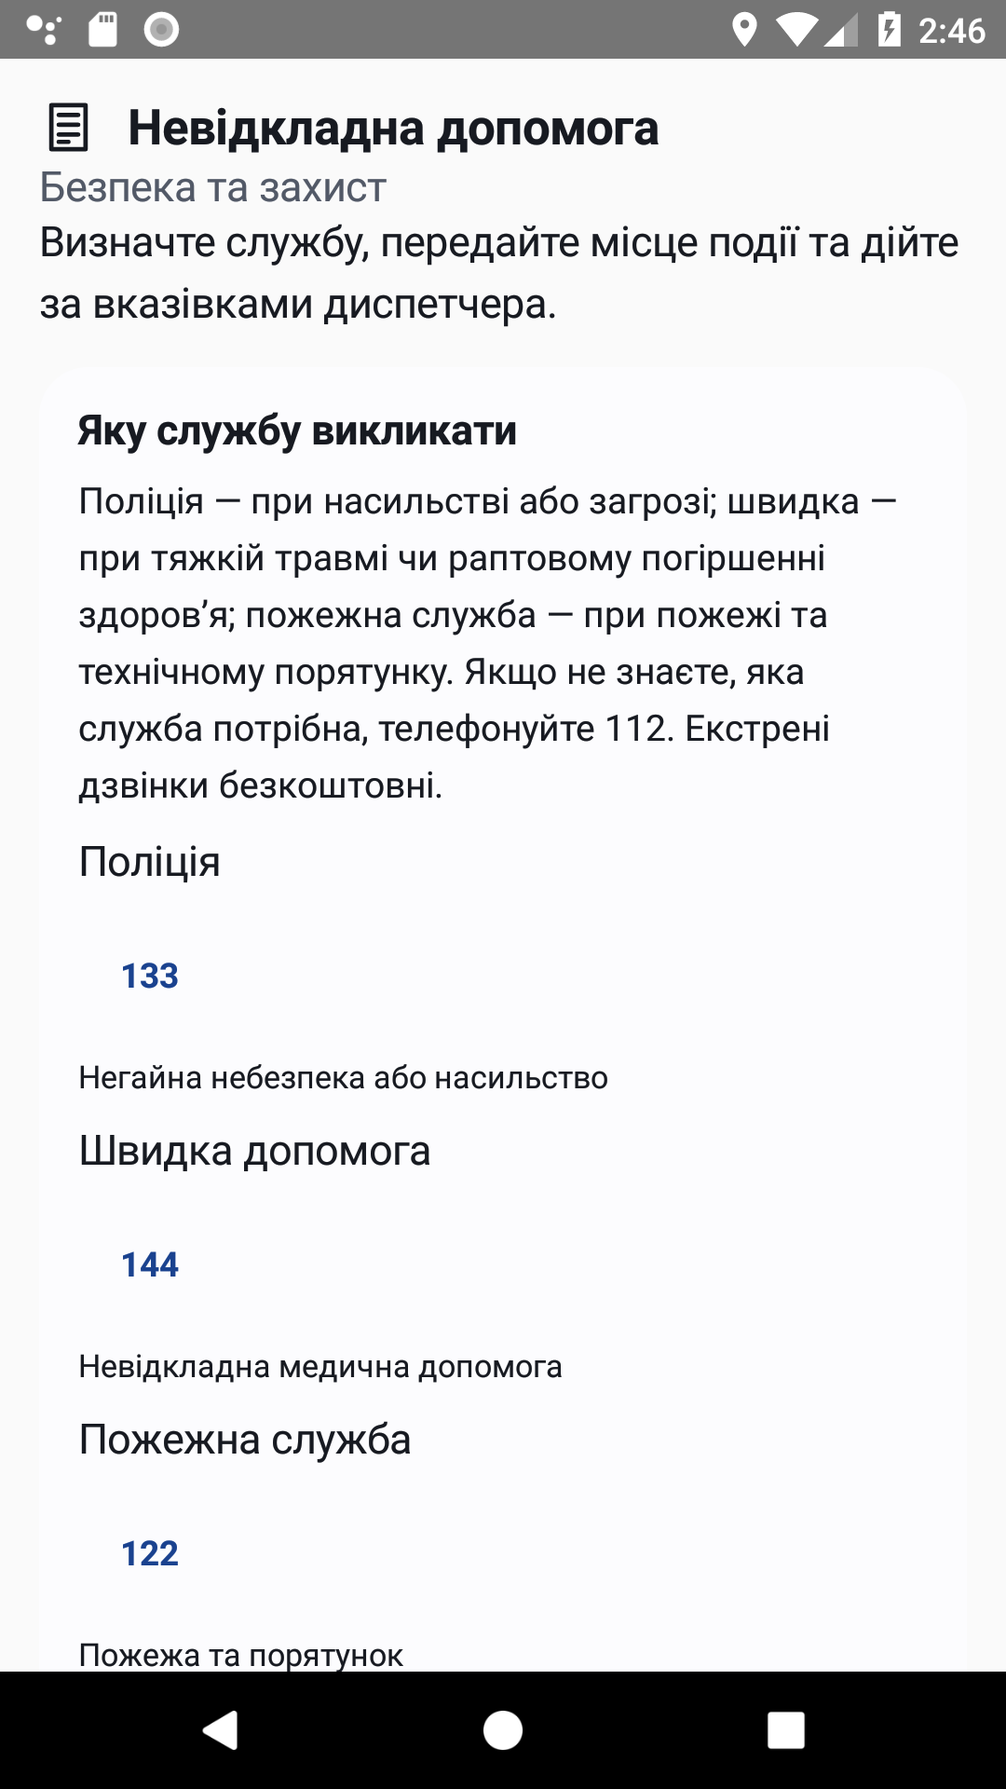
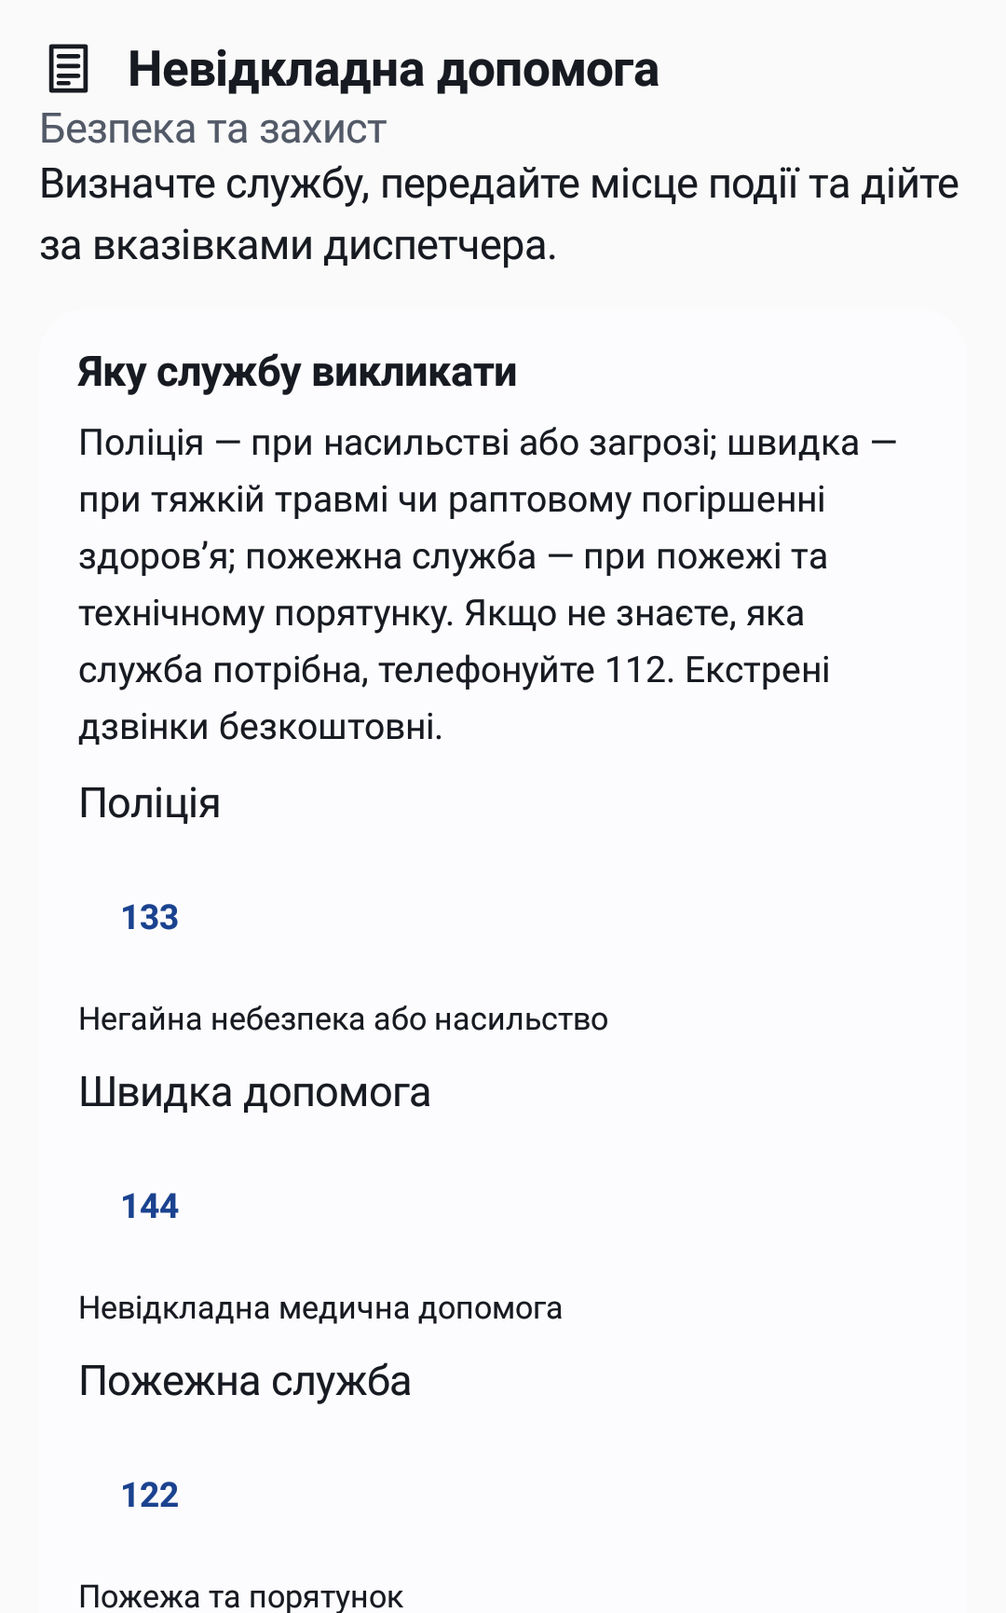
Refine Android Directory home presentation and search

diff --git a/Android/app/src/main/java/at/uac/android/feature/directory/DirectoryScreen.kt b/Android/app/src/main/java/at/uac/android/feature/directory/DirectoryScreen.kt
@@ -3,31 +3,49 @@ package at.uac.android.feature.directory
 import android.content.Intent
 import android.net.Uri
 import androidx.compose.foundation.clickable
+import androidx.compose.foundation.background
 import androidx.compose.foundation.layout.Arrangement
+import androidx.compose.foundation.layout.Box
 import androidx.compose.foundation.layout.Column
 import androidx.compose.foundation.layout.PaddingValues
+import androidx.compose.foundation.layout.Row
+import androidx.compose.foundation.layout.Spacer
 import androidx.compose.foundation.layout.fillMaxSize
 import androidx.compose.foundation.layout.fillMaxWidth
+import androidx.compose.foundation.layout.heightIn
 import androidx.compose.foundation.layout.padding
+import androidx.compose.foundation.layout.size
+import androidx.compose.foundation.layout.width
 import androidx.compose.foundation.lazy.LazyColumn
 import androidx.compose.foundation.lazy.items
+import androidx.compose.foundation.lazy.rememberLazyListState
 import androidx.compose.material3.Button
+import androidx.compose.material3.LocalContentColor
 import androidx.compose.material3.MaterialTheme
 import androidx.compose.material3.OutlinedButton
 import androidx.compose.material3.OutlinedTextField
+import androidx.compose.material3.Surface
 import androidx.compose.material3.Text
 import androidx.compose.material3.TextButton
 import androidx.compose.runtime.Composable
+import androidx.compose.runtime.CompositionLocalProvider
 import androidx.compose.runtime.DisposableEffect
 import androidx.compose.runtime.collectAsState
 import androidx.compose.runtime.getValue
 import androidx.compose.runtime.mutableStateOf
 import androidx.compose.runtime.remember
+import androidx.compose.runtime.rememberCoroutineScope
 import androidx.compose.runtime.saveable.rememberSaveable
 import androidx.compose.runtime.setValue
 import androidx.compose.ui.Modifier
+import androidx.compose.ui.Alignment
+import androidx.compose.ui.draw.clip
+import androidx.compose.ui.graphics.Brush
+import androidx.compose.ui.graphics.Color
 import androidx.compose.ui.platform.LocalContext
 import androidx.compose.ui.platform.testTag
+import androidx.compose.ui.semantics.Role
+import androidx.compose.foundation.shape.RoundedCornerShape
 import androidx.compose.ui.unit.dp
 import at.uac.android.core.backend.AppBackend
 import androidx.lifecycle.viewmodel.compose.viewModel
@@ -35,10 +53,12 @@ import at.uac.android.design.UacCard
 import at.uac.android.design.UacDesign
 import at.uac.android.design.UacIcon
 import at.uac.android.design.UacSectionHeading
+import at.uac.android.design.UacSymbol
 import at.uac.android.feature.browse.Choice
 import at.uac.android.feature.browse.SafeLink
 import at.uac.android.feature.browse.regions
 import at.uac.android.feature.browse.tr
+import kotlinx.coroutines.launch
 
 /** Public catalog stays readable from the reviewed bundle while cloud edits sync. */
 @Composable
@@ -88,8 +108,14 @@ fun DirectoryDestination(
     val category = parts.getOrNull(1)?.let { id -> categories.firstOrNull { it.id == id } }
     val topic = category?.let { c -> parts.getOrNull(2)?.let(c::visibleTopic) }
     val missing = (parts.size > 1 && category == null) || (parts.size > 2 && topic == null)
+    var query by rememberSaveable(route) { mutableStateOf("") }
+    val searching = query.isNotBlank()
+    val results = remember(query, language, categories) { searchDirectory(categories, query, language) }
+    val listState = rememberLazyListState()
+    val scope = rememberCoroutineScope()
     LazyColumn(
         Modifier.fillMaxSize().testTag("directory-list"),
+        state = listState,
         contentPadding = PaddingValues(start = UacDesign.pageInset, end = UacDesign.pageInset, bottom = 36.dp),
         verticalArrangement = Arrangement.spacedBy(16.dp),
     ) {
@@ -185,58 +211,135 @@ fun DirectoryDestination(
                 }
             }
         } else {
-            item("intro") {
-                UacSectionHeading(tr(language, "Ratgeber", "Довідник"), UacIcon.NEWS)
-                Text(tr(language, "Wichtige Themen für das Leben in Österreich – vom Ankommen bis zum Alltag.",
-                    "Важливі теми для життя в Австрії — від перших кроків до щоденних питань."),
-                    style = MaterialTheme.typography.bodyLarge)
-                if (canEdit) TextButton({ onOpen("directory/manage") }) {
-                    Text(tr(language, "Ratgeber verwalten", "Керування довідником"))
+            if (!searching) {
+                item("intro") {
+                    DirectoryWelcomeHero(language) { scope.launch { listState.animateScrollToItem(3) } }
+                    if (canEdit) TextButton({ onOpen("directory/manage") }) {
+                        Text(tr(language, "Ratgeber verwalten", "Керування довідником"))
+                    }
                 }
             }
             item("search") {
-                var query by rememberSaveable { mutableStateOf("") }
                 OutlinedTextField(query, { query = it.take(160) },
                     label = { Text(tr(language, "Im Ratgeber suchen", "Пошук у довіднику")) },
                     modifier = Modifier.fillMaxWidth().testTag("directory-search"), singleLine = true)
-                val results = remember(query, language, categories) { searchDirectory(categories, query, language) }
-                if (query.trim().length >= 2) {
-                    if (results.isEmpty())
-                        Text(tr(language, "Keine Treffer", "Нічого не знайдено"))
-                    results.take(40).forEach { result ->
-                        TextButton({ onOpen(result.first) }, Modifier.fillMaxWidth()) {
-                            Text(result.second)
+            }
+            if (searching) {
+                item("results-heading") {
+                    Text(tr(language, "Suchergebnisse", "Результати пошуку"),
+                        style = MaterialTheme.typography.titleMedium)
+                }
+                if (results.isEmpty()) item("no-results") {
+                    Text(tr(language, "Keine Treffer. Versuchen Sie einen anderen Begriff.",
+                        "Нічого не знайдено. Спробуйте інший запит."))
+                }
+                items(results, key = { "result:${it.first}" }) { result ->
+                    UacCard(Modifier.clickable { onOpen(result.first) }) {
+                        Text(result.second, style = MaterialTheme.typography.titleSmall)
+                    }
+                }
+            } else {
+                item("categories-heading") {
+                    Text(tr(language, "Bereiche des Ratgebers", "Розділи довідника"),
+                        style = MaterialTheme.typography.headlineSmall,
+                        modifier = Modifier.testTag("directory-categories-heading"))
+                }
+                categories.firstOrNull { it.id == "safety" }?.let { safety ->
+                    item("safety") {
+                        DirectoryCategoryRow(safety, language, featured = true) {
+                            onOpen("directory/${safety.id}")
                         }
                     }
                 }
-            }
-            listOf("start", "life", "support").forEach { placement ->
-                val section = categories.filter { it.placement == placement }
-                if (section.isNotEmpty()) {
-                    item("placement:$placement") {
-                        UacSectionHeading(when (placement) {
-                            "start" -> tr(language, "Ankommen in Österreich", "Початок в Австрії")
-                            "life" -> tr(language, "Alltag", "Повсякденне життя")
-                            else -> tr(language, "Unterstützung und Teilhabe", "Підтримка та участь")
-                        }, UacIcon.NEWS)
-                    }
-                    items(section, key = { "category:${it.id}" }) { item ->
-                        UacCard(Modifier.clickable { onOpen("directory/${item.id}") }
-                            .testTag("directory-category-${item.id}")) {
-                            Text(item.title.forLanguage(language), style = MaterialTheme.typography.titleMedium)
-                            Text(item.summary.forLanguage(language), maxLines = 3)
-                            TextButton({ onOpen("directory/${item.id}") }) {
-                                Text(tr(language, "Bereich öffnen", "Відкрити розділ"))
+                listOf("start", "life", "support").forEach { placement ->
+                    val section = categories.filter { it.placement == placement && it.id != "safety" }
+                    if (section.isNotEmpty()) {
+                        item("placement:$placement") {
+                            Text(when (placement) {
+                                "start" -> tr(language, "Ankommen in Österreich", "Початок в Австрії")
+                                "life" -> tr(language, "Alltag", "Повсякденне життя")
+                                else -> tr(language, "Unterstützung und Teilhabe", "Підтримка та участь")
+                            }, style = MaterialTheme.typography.titleMedium)
+                        }
+                        items(section, key = { "category:${it.id}" }) { item ->
+                            DirectoryCategoryRow(item, language) {
+                                onOpen("directory/${item.id}")
                             }
                         }
                     }
                 }
-            }
-            item("feedback") {
-                FeedbackCard(language, tr(language, "Fehlt eine Antwort?", "Бракує відповіді?")) {
-                    onFeedback(null, null, tr(language, "Ratgeber", "Довідник"))
+                item("feedback") {
+                    FeedbackCard(language, tr(language, "Fehlt eine Antwort?", "Бракує відповіді?")) {
+                        onFeedback(null, null, tr(language, "Ratgeber", "Довідник"))
+                    }
                 }
             }
+        }
+    }
+}
+
+@Composable
+private fun DirectoryWelcomeHero(language: String, onBrowse: () -> Unit) {
+    val shape = RoundedCornerShape(UacDesign.cardRadius)
+    Column(
+        Modifier.fillMaxWidth().heightIn(min = 190.dp)
+            .clip(shape)
+            .background(Brush.linearGradient(listOf(
+                Color(0xFF25498C), Color(0xFFAC3D4D), Color(0xFFC59E43),
+            )))
+            .clickable(role = Role.Button, onClick = onBrowse)
+            .testTag("directory-browse-sections")
+            .padding(22.dp),
+        verticalArrangement = Arrangement.spacedBy(8.dp),
+    ) {
+        CompositionLocalProvider(LocalContentColor provides Color.White) {
+            UacSymbol(UacIcon.DIRECTORY)
+        }
+        Text(tr(language, "Ratgeber", "Довідник"),
+            style = MaterialTheme.typography.headlineLarge, color = Color.White)
+        Text(tr(language, "Wichtige Themen für das Leben in Österreich – vom Ankommen bis zum Alltag.",
+            "Важливі теми для життя в Австрії — від перших кроків до щоденних питань."),
+            style = MaterialTheme.typography.bodyMedium, color = Color.White.copy(alpha = .9f))
+        Text(tr(language, "Bereiche ansehen →", "Переглянути розділи →"),
+            style = MaterialTheme.typography.labelLarge, color = Color.White)
+    }
+}
+
+@Composable
+private fun DirectoryCategoryRow(category: DirectoryCategory, language: String,
+                                 featured: Boolean = false, onClick: () -> Unit) {
+    val shape = RoundedCornerShape(UacDesign.cardRadius)
+    val colors = if (featured)
+        listOf(UacDesign.blue, UacDesign.blue.copy(alpha = .82f))
+    else listOf(MaterialTheme.colorScheme.surfaceContainerLow,
+        MaterialTheme.colorScheme.surfaceContainerLow)
+    val foreground = if (featured) Color.White else MaterialTheme.colorScheme.onSurface
+    Row(
+        Modifier.fillMaxWidth().heightIn(min = 76.dp)
+            .clip(shape).background(Brush.linearGradient(colors))
+            .clickable(role = Role.Button, onClick = onClick)
+            .testTag("directory-category-${category.id}")
+            .padding(horizontal = 14.dp, vertical = 12.dp),
+        verticalAlignment = Alignment.CenterVertically,
+    ) {
+        Surface(
+            Modifier.size(if (featured) 56.dp else 48.dp),
+            shape = RoundedCornerShape(14.dp),
+            color = if (featured) Color.White.copy(alpha = .18f)
+                else MaterialTheme.colorScheme.primaryContainer,
+            contentColor = if (featured) Color.White else MaterialTheme.colorScheme.onPrimaryContainer,
+        ) {
+            Box(contentAlignment = Alignment.Center) {
+                UacSymbol(if (featured) UacIcon.SECURITY else UacIcon.DIRECTORY)
+            }
+        }
+        Spacer(Modifier.width(14.dp))
+        Column(Modifier.weight(1f), verticalArrangement = Arrangement.spacedBy(4.dp)) {
+            Text(category.title.forLanguage(language),
+                style = MaterialTheme.typography.titleSmall, color = foreground)
+            Text(category.summary.forLanguage(language), maxLines = 2,
+                style = MaterialTheme.typography.bodySmall,
+                color = foreground.copy(alpha = if (featured) .88f else .72f))
         }
     }
 }
@@ -279,7 +382,7 @@ private fun FeedbackCard(language: String, heading: String, onClick: () -> Unit)
 
 private fun searchDirectory(categories: List<DirectoryCategory>, raw: String, language: String): List<Pair<String, String>> {
     val query = raw.trim().lowercase()
-    if (query.length < 2) return emptyList()
+    if (query.isEmpty()) return emptyList()
     val found = mutableListOf<Pair<String, String>>()
     categories.forEach { category ->
         val title = category.title.forLanguage(language)

diff --git a/Android/app/src/androidTest/java/at/uac/android/DirectoryReaderUiTest.kt b/Android/app/src/androidTest/java/at/uac/android/DirectoryReaderUiTest.kt
@@ -3,11 +3,14 @@ package at.uac.android
 import android.graphics.Bitmap
 import androidx.compose.runtime.mutableStateOf
 import androidx.compose.ui.test.junit4.createComposeRule
+import androidx.compose.ui.test.captureToImage
+import androidx.compose.ui.test.onRoot
 import androidx.compose.ui.test.onNodeWithTag
 import androidx.compose.ui.test.performClick
 import androidx.compose.ui.test.performScrollToNode
 import androidx.compose.ui.test.performTextInput
 import androidx.compose.ui.test.onNodeWithText
+import androidx.compose.ui.graphics.asAndroidBitmap
 import androidx.test.ext.junit.runners.AndroidJUnit4
 import androidx.test.platform.app.InstrumentationRegistry
 import at.uac.android.design.UacTheme
@@ -75,6 +78,7 @@ class DirectoryReaderUiTest {
             }
         }
         compose.onNodeWithTag("directory-search").performTextInput("Gewalt")
+        compose.onNodeWithTag("directory-browse-sections").assertDoesNotExist()
         compose.onNodeWithText("Häusliche Gewalt · Sicherheit & Schutz").performClick()
         assertEquals("directory/safety/domestic-violence", route.value)
         compose.onNodeWithTag("directory-list")
@@ -89,7 +93,7 @@ class DirectoryReaderUiTest {
     private fun screenshot(name: String) {
         compose.waitForIdle()
         val instrumentation = InstrumentationRegistry.getInstrumentation()
-        val bitmap = instrumentation.uiAutomation.takeScreenshot()
+        val bitmap = compose.onRoot().captureToImage().asAndroidBitmap()
         java.io.File(instrumentation.targetContext.cacheDir, name).outputStream().use {
             bitmap.compress(Bitmap.CompressFormat.PNG, 100, it)
         }

diff --git a/Docs/AndroidParity107Step4Directory-2026-10-13.md b/Docs/AndroidParity107Step4Directory-2026-10-13.md
@@ -7,13 +7,14 @@
 - Пятая вкладка «Довідник / Ratgeber» с отдельным стеком, возвратом к корню при повторном нажатии, сохранением публичного маршрута при смене вкладок и удалением приватного маршрута редактора при смене аккаунта. Профиль и прежние маршруты сохранены.
 - Каталог экспортируется из текущих iOS Directory Swift-моделей скриптом `scripts/export_android_directory.sh`: 25 категорий, 145 статей, 663 основных и 288 региональных блоков. Отдельный JSON в APK позволяет читать материалы без сети. Исходники iOS не изменялись.
 - Android показывает категории, группы, статьи, источники через существующее подтверждение HTTPS-ссылки, телефон через системный набор, поиск, региональные блоки, пустые/недоступные состояния и контекстный переход к существующей форме обращения. Управляемые категории синхронизируются из публичной Firestore-коллекции; при ошибке остаётся локальный каталог и доступна повторная попытка.
+- После сравнения с iOS 107 локально выровнены вводный баннер, отдельная карточка безопасности, группировка и плотность карточек категорий. Поисковый запрос открывает самостоятельный список результатов, скрывая стартовые разделы. Снимки сделаны с Compose-содержимого, без системной панели и общей навигационной оболочки.
 - Редактор: двуязычные поля категории, групп, статей, блоков и контактов, источники, региональные блоки, скрытие, порядок, создание и удаление пользовательской категории. Черновик не публикуется до явного действия. Клиент проверяет структуру и HTTPS-источники; серверные callable-функции проверяют права владельца/редактора, MFA, состояние аккаунта и ожидаемую ревизию. На Android доступ к редактору по роли/гранту служит подсказкой интерфейса; решение о записи принимает сервер.
 - На staging `uac-android-test-20260903` развёрнуты только `saveDirectoryCategory` и `deleteDirectoryCategory`; обе функции прочитаны обратно как ACTIVE. Неавторизованный вызов публикации отклонён `401 UNAUTHENTICATED`. Публичная коллекция `directoryCategories` на момент проверки пуста, поэтому APK использует встроенный каталог.
 
 ## Проверено
 
 - `:app:testLocalDebugUnitTest`: 1 963 теста, 0 ошибок; `:app:assembleLocalDebug`, `:app:lintLocalDebug` успешны, lint без issues.
[2 lines of base64/hex data omitted]
 - API 26 AVD, обычный размер шрифта: 3/3 теста чтения, поиска и регионального материала; 2/2 теста редактора (правка существующей категории с ожидаемой ревизией и создание новой двуязычной категории с источником); 1/1 тест пяти вкладок на немецком языке. Снимки отдельных экранов: `evidence/directory-root-api26.png`, `evidence/directory-guide-api26.png`. Это UI изолированных Compose-сценариев, не сквозной вход в staging APK.
 - Серверные интеграционные тесты Directory: 2/2, тесты Firestore Rules Directory: 5/5. Проверены запрет прямой клиентской записи, гранты, MFA, ревизии, удаление и история.
 
